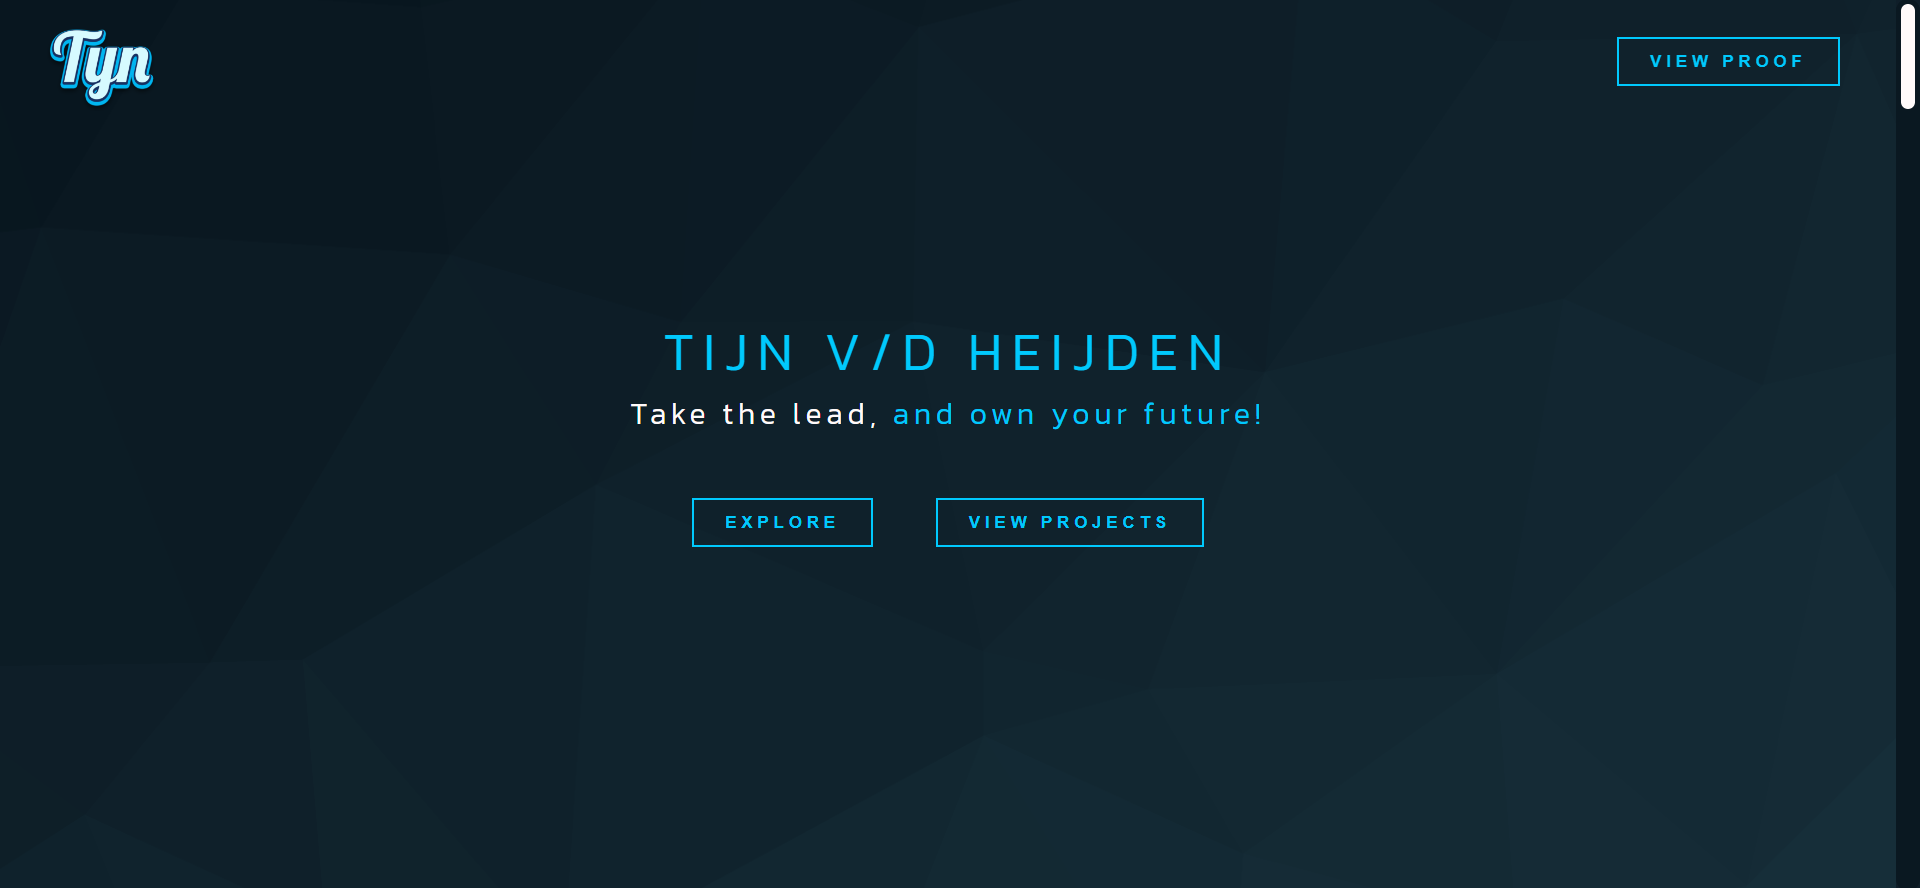
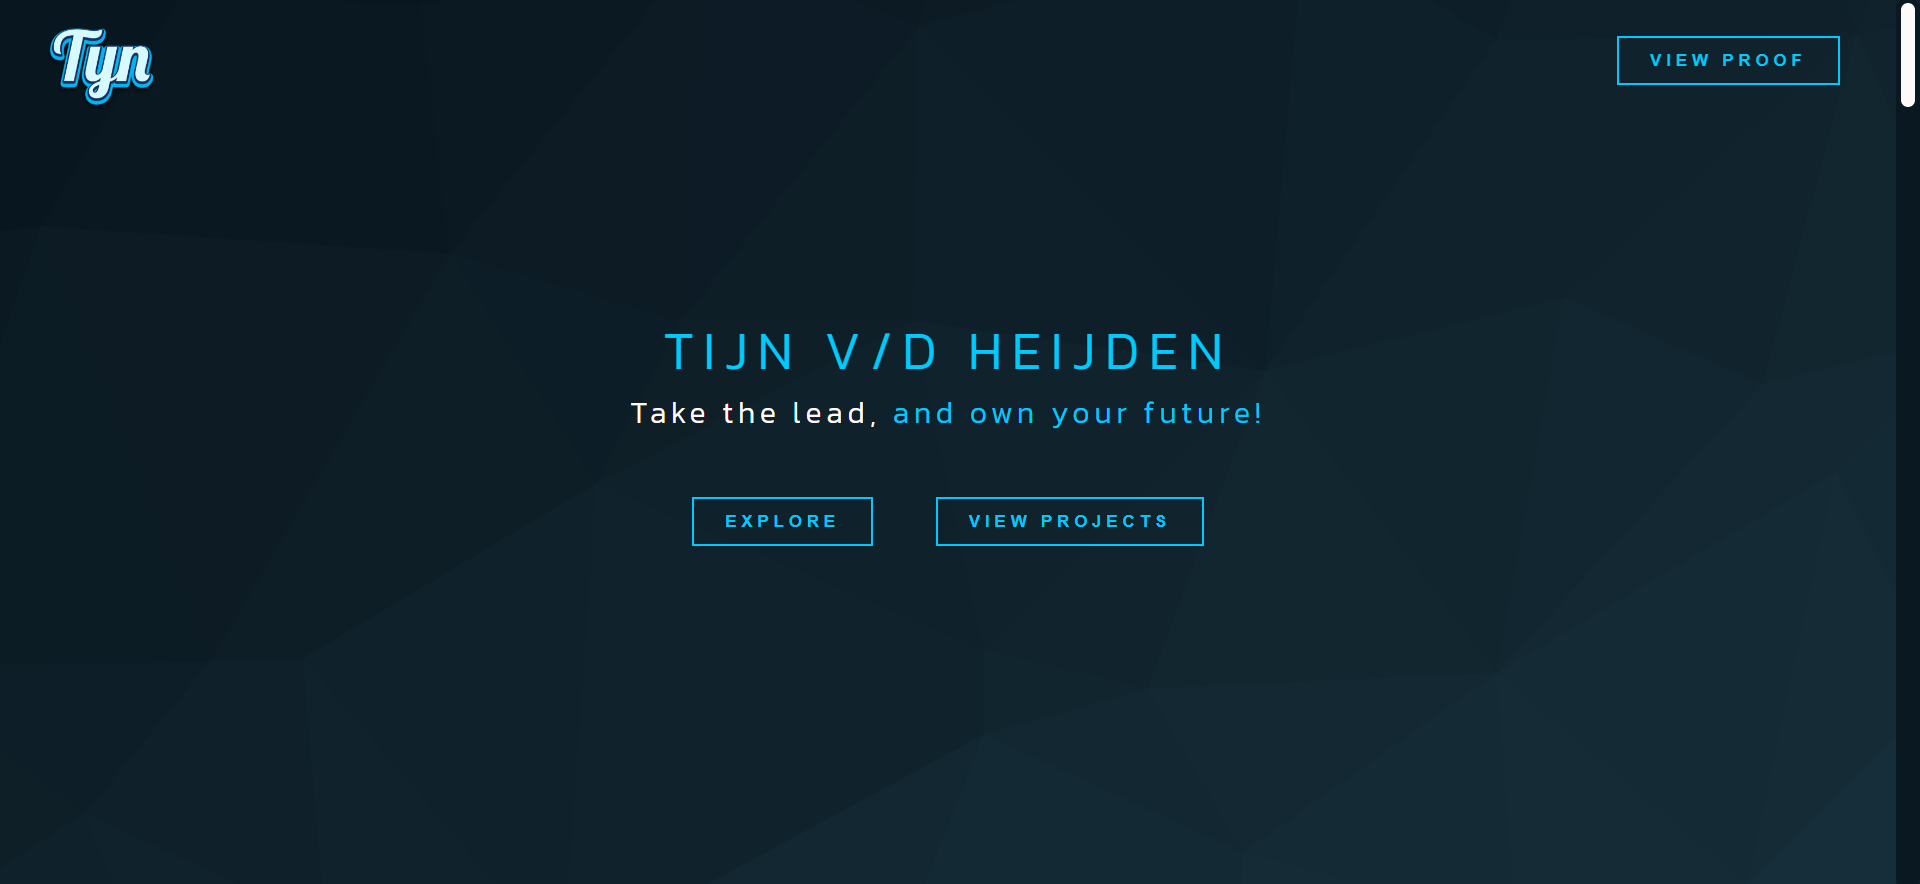
im out here on the roll

diff --git a/individualdeliverable7.html b/individualdeliverable7.html
@@ -35,12 +35,53 @@
     <div class="width">
         <h2 class="guide">INTRO</h2>
         <p class="desc">
-          I used Figma for my entired designing process. This includes the wireframes, until the final prototype which has been tested with users. Using knowledge I gained on auto-layouts, styles and components during my internship, I was able to smoothly work through this process.
+          For the development of my portfolio, I used vanilla HTML, CSS and JavaScript. After my front-end framework research, I had concluded that this would be the best way to work on the development of this portfolio.
         </p>
+        <hr class="version">
+    </div>
+    <div class="reveal">
+      <div class="width">
+        <h2 class="guide">START: HOMEPAGE</h2>
+        <p class="desc">
+          For the homepage, I wanted to achieve a look that invites the user to find out more about the portfolio. This would entail the logo and proof button at the top of the screen, and inviting content in the middle of the screen. 
+        </p>
+        <p class="desc">I re-used a lot of code from my already existing portfolio from my <a class="menu-link line" href="https://tijnvdh.nl/Portfolio/opdracht.html" target="_blank" rel="noopener noreferrer">internship</a>. While a lot of functionalities act the same, I did try to apply a different type of style to this portfolio, while still keeping the dark theme.</p>
         <div class="company">
-          <img class="deliverable" src="./images/figma.png">
+          <img src="./images/homepage.png" class="deliverable">
         </div>
         <hr class="version">
+      </div>
+    </div>
+    <div class="reveal">
+      <div class="width">
+        <h2 class="guide">COMPETENCE TABLE</h2>
+        <p class="desc">Working on the competence table was easier than I had anticipated by using the HTML table tags. After experimenting with different rows and columns I got to the final result I was hoping for:</p>
+        <div class="company">
+          <img src="./images/competence.png" class="deliverable">
+        </div>
+        <div class="company">
+          <img src="./images/tablecode.png" class="deliverable">
+        </div>
+        <hr class="version">
+      </div>
+    </div>
+    <div class="reveal">
+      <div class="width">
+        <h2 class="guide">PROOF SECTION</h2>
+        <p class="desc">
+          There is a proof section at the bottom of each project page. I had to make sure that The meaning of the deliverable, the attached learning outcome and an illustration for this was clear. By making use of a <a class="menu-link line" href="https://www.youtube.com/watch?v=ssEiM3zyN08" target="_blank" rel="noopener noreferrer">YouTube tutorial</a>,
+          I quickly got to the desired end-product. 
+        </p>
+        <hr class="version">
+      </div>
+    </div>
+    <div class="reveal">
+      <div class="width">
+        <h2 class="guide">REFERENCES</h2>
+        <p class="desc">
+          Tahmid Ahmed. (2023, 10 augustus). Build a complete personal portfolio website using HTML, CSS, and JavaScript [Video]. YouTube. https://www.youtube.com/watch?v=ssEiM3zyN08
+        </p>
+      </div>
     </div>
   </main>
   

diff --git a/groupdeliverable4.html b/groupdeliverable4.html
@@ -55,6 +55,12 @@
             <li>Forms for adding/removing activities.</li>
           </ul>
         </p>
+        <p class="desc">
+          The design choice for a date slider was made since the calendar feature would be similar to a class schedule app. These apps, and apps which you can use to plan your days usually have a date slider on top of their pages, which made it applicable for this app as well.
+        </p>
+        <p class="desc">
+          A lot of webpages use a month calendar overview for picking dates (which is something that is also implementend in the app, just as a seperate pop-up and not directly accessible). However, this is a mobile app, and this interface would benefit from an accessible slider from which dates can be picked. When you want to expose a variety of options or help users limit a number of options quickly, a slider serves the purpose really well (Designing the perfect slider UX — Smashing magazine, 2017).
+        </p>
         <p class="desc">I have used several sources of inspiration for these features, which have been put into moodboards:</p>
         <div class="company">
           <img class="deliverable" src="./images/inspo1.png">
@@ -110,10 +116,19 @@
     </div>
     <div class="reveal">
       <div class="width">
+        <h2 class="guide">FINAL PROTOTYPE</h2>
         <p class="desc">After everything was linked together, a final prototype was ready for testing. After several iterations, this is the final prototype of the app which you can navigate through below:</p>
         <div class="wireframe">
           <iframe style="border: 1px solid rgba(0, 0, 0, 0.1);" width="1130" height="450" src="https://www.figma.com/embed?embed_host=share&url=https%3A%2F%2Fwww.figma.com%2Fproto%2FoIqNVG2cKIFS9ToZsToQVz%2FTeam-Snorkelkat-Design-File%3Fpage-id%3D2%253A16%26type%3Ddesign%26node-id%3D1548-10369%26viewport%3D-614%252C-12487%252C0.73%26t%3DDWe2IX7abRpuztJG-1%26scaling%3Dscale-down%26starting-point-node-id%3D1548%253A10369%26mode%3Ddesign" allowfullscreen></iframe>
         </div>
+        <hr class="version">
+      </div>
+    </div>
+    <div class="reveal">
+      <div class="width">
+        <h2 class="guide">REFERENCES</h2>
+        <p class="desc">Designing the perfect slider UX — Smashing magazine. (2017, 19 juli). Smashing Magazine. https://www.smashingmagazine.com/2017/07/designing-perfect-slider/</p>
+        <hr class="vesion">
       </div>
     </div>
   </main>
